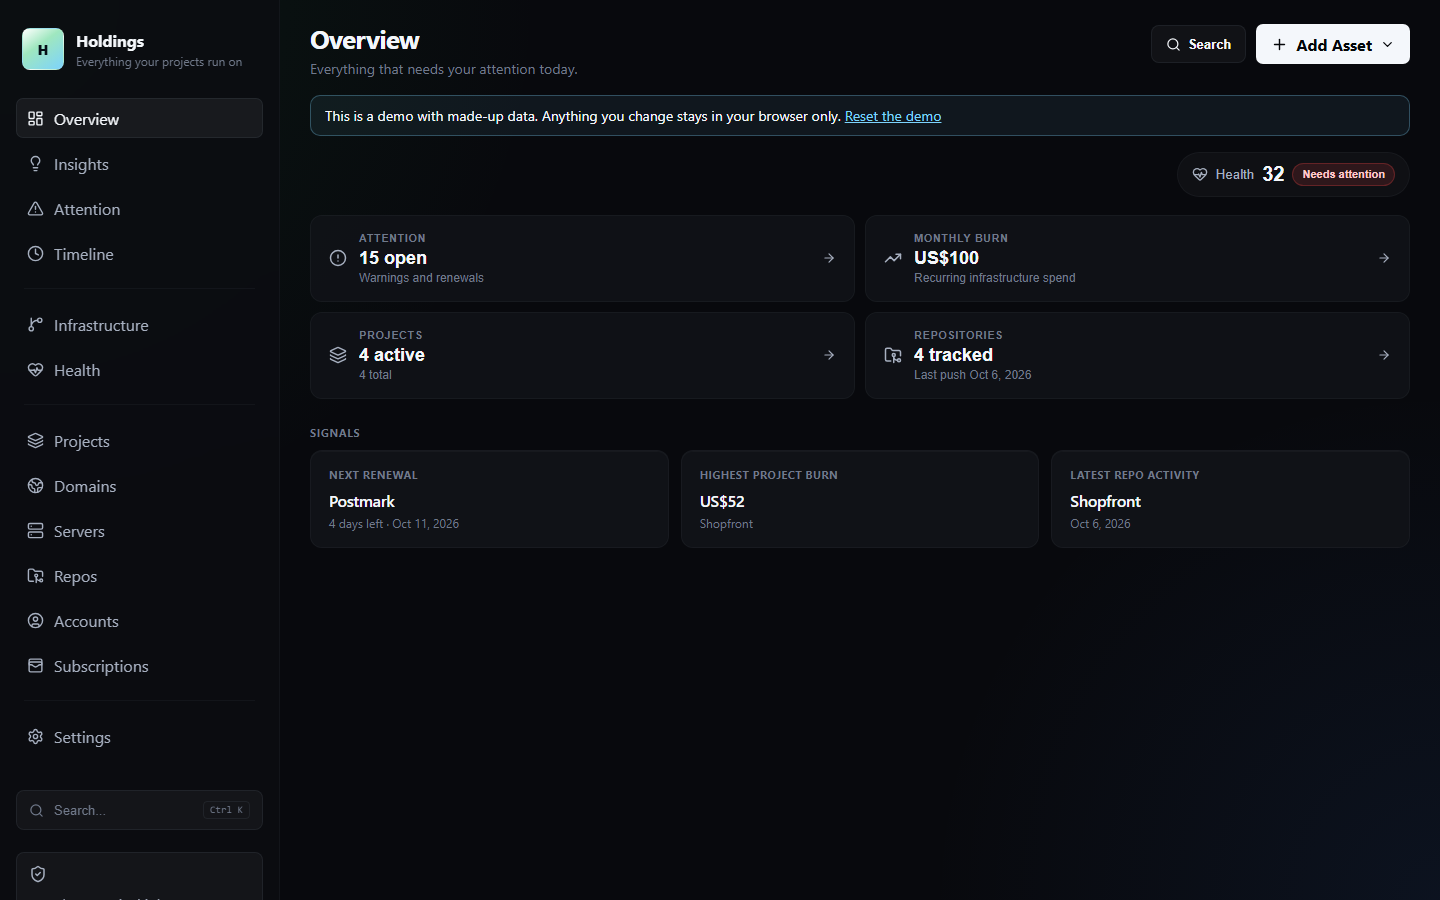
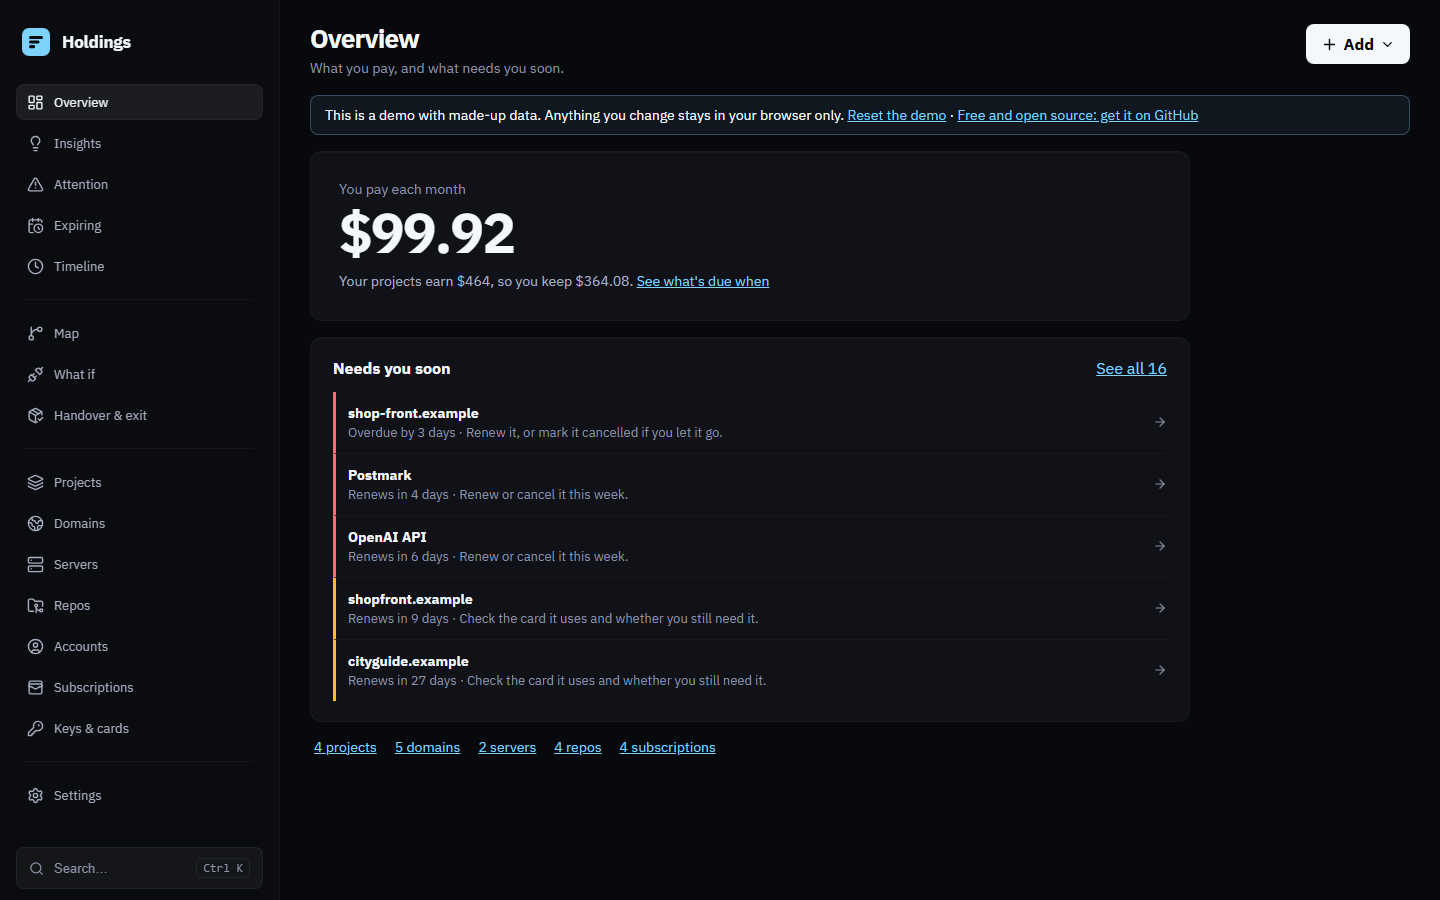
Release 0.2.0
Changelog, versions, README status and features, and fresh screenshots
of the demo (adds What breaks if…).

diff --git a/README.md b/README.md
@@ -14,7 +14,7 @@ If you run a handful of side projects, you probably have 20 domains at three reg
 
 It runs entirely in your browser. No account, no tracking, no server required. If you want it on every device, run it on your own server with one Docker command and a login.
 
-> **Status:** early. v0.1 is a working local-first tracker. The features that make Holdings different (see [Roadmap](#roadmap)) are being built for v0.2. Feedback and issues are very welcome.
+> **Status:** v0.2. The asset register, "what breaks if…", the expiry radar, handover and exit packs, self-hosting with a login, Stripe revenue and an MCP server for AI agents all work today. Still young: feedback and issues are very welcome.
 
 ## Who it's for
 
@@ -39,13 +39,18 @@ If you want a homelab start page, [Homepage](https://github.com/gethomepage/home
 - **Timeline** built only from real dates: when you added things, when repos were created, when domains were registered.
 - **Costs in USD**, with an optional second display currency. Its rate is fetched daily from [ExchangeRate-API](https://www.exchangerate-api.com).
 - **Handover and exit packs**: a locked "if I'm unavailable" file for someone you trust (opens offline in any browser with a passphrase, never contains passwords or keys), and an asset register with a transfer checklist for selling a project.
+- **Self-hosting** (optional): one Docker container with a password and two-step login, your data saved on your server and available in every browser.
+- **Revenue from Stripe** (self-hosted): link Stripe products to a project and its monthly revenue fills itself in, with a read-only key.
+- **MCP server** so Claude, Cursor and other agents can answer questions about your portfolio, read-only.
 - **Command palette** (Ctrl/Cmd + K) to jump to anything.
 - **Export and import** everything as JSON.
 - **Demo mode** with a made-up portfolio, to look around before adding your own data.
 
-| Projects | Domains | Infrastructure map |
-| --- | --- | --- |
-| ![Projects](docs/screenshots/projects.png) | ![Domains](docs/screenshots/domains.png) | ![Infrastructure map](docs/screenshots/infrastructure-map.png) |
+| Projects | What breaks if… |
+| --- | --- |
+| ![Projects: cost, revenue and profit per project](docs/screenshots/projects.png) | ![What breaks if a payment card stops](docs/screenshots/what-if.png) |
+| **Domains** | **Map** |
+| ![Domains with renewal dates and DNS checks](docs/screenshots/domains.png) | ![Map of what each project runs on](docs/screenshots/infrastructure-map.png) |
 
 ## Quick start
 

diff --git a/CHANGELOG.md b/CHANGELOG.md
@@ -1,5 +1,31 @@
 # Changelog
 
+## 0.2.0 (2026-10-24)
+
+The founder's asset register: what each project costs and earns, what breaks if something stops, and an optional self-hosted server.
+
+### Added
+- **Project ledger**: monthly cost, revenue and profit per project. Shared servers and subscriptions are split between the projects using them; costs not in any project are shown separately.
+- **"What breaks if…"**: pick a server, domain, account or payment card and see the affected projects, subdomains and revenue at risk.
+- **Keys & cards and the expiry radar**: API keys, tokens, certificates and cards tracked by name and date (never the secret), and one list of everything that renews or expires.
+- **Handover pack** (a passphrase-locked file for someone you trust, opens offline) and **exit pack** (asset register and transfer checklist for selling a project).
+- **Self-hosted server** (optional): one Docker container with Node and SQLite. Password login with optional two-step codes, data saved on your server with conflict protection, domain lookups. See docs/self-hosting.md.
+- **Stripe revenue** (self-hosted): connect a read-only restricted key and link products to projects; monthly recurring revenue fills in automatically.
+- **MCP server** (read-only) for Claude, Cursor and other agents, reading an export or live data with a read-only access token. See docs/mcp.md.
+- Saving anything that looks like a real API key, token or card number is refused.
+- `@holdings/core`: the data model, cost engine, ledger and impact analysis, shared by the app, server and MCP server.
+
+### Changed
+- New look: own colour tokens, typography (IBM Plex Sans, self-hosted) and logo.
+- Plain-language copy throughout, and numbers that are only ever real (no made-up scores or trends).
+- Keyboard and screen reader support: focus handling in dialogs and menus, skip link, labelled controls.
+- Phone layouts and long names no longer overflow cards.
+- The public demo has link previews and is code-split for a lighter first load.
+
+### Fixed
+- Settings fields had no visible border.
+
+
 ## 0.1.0 (2026-10-07)
 
 First release under the name Holdings (formerly Founder OS).
